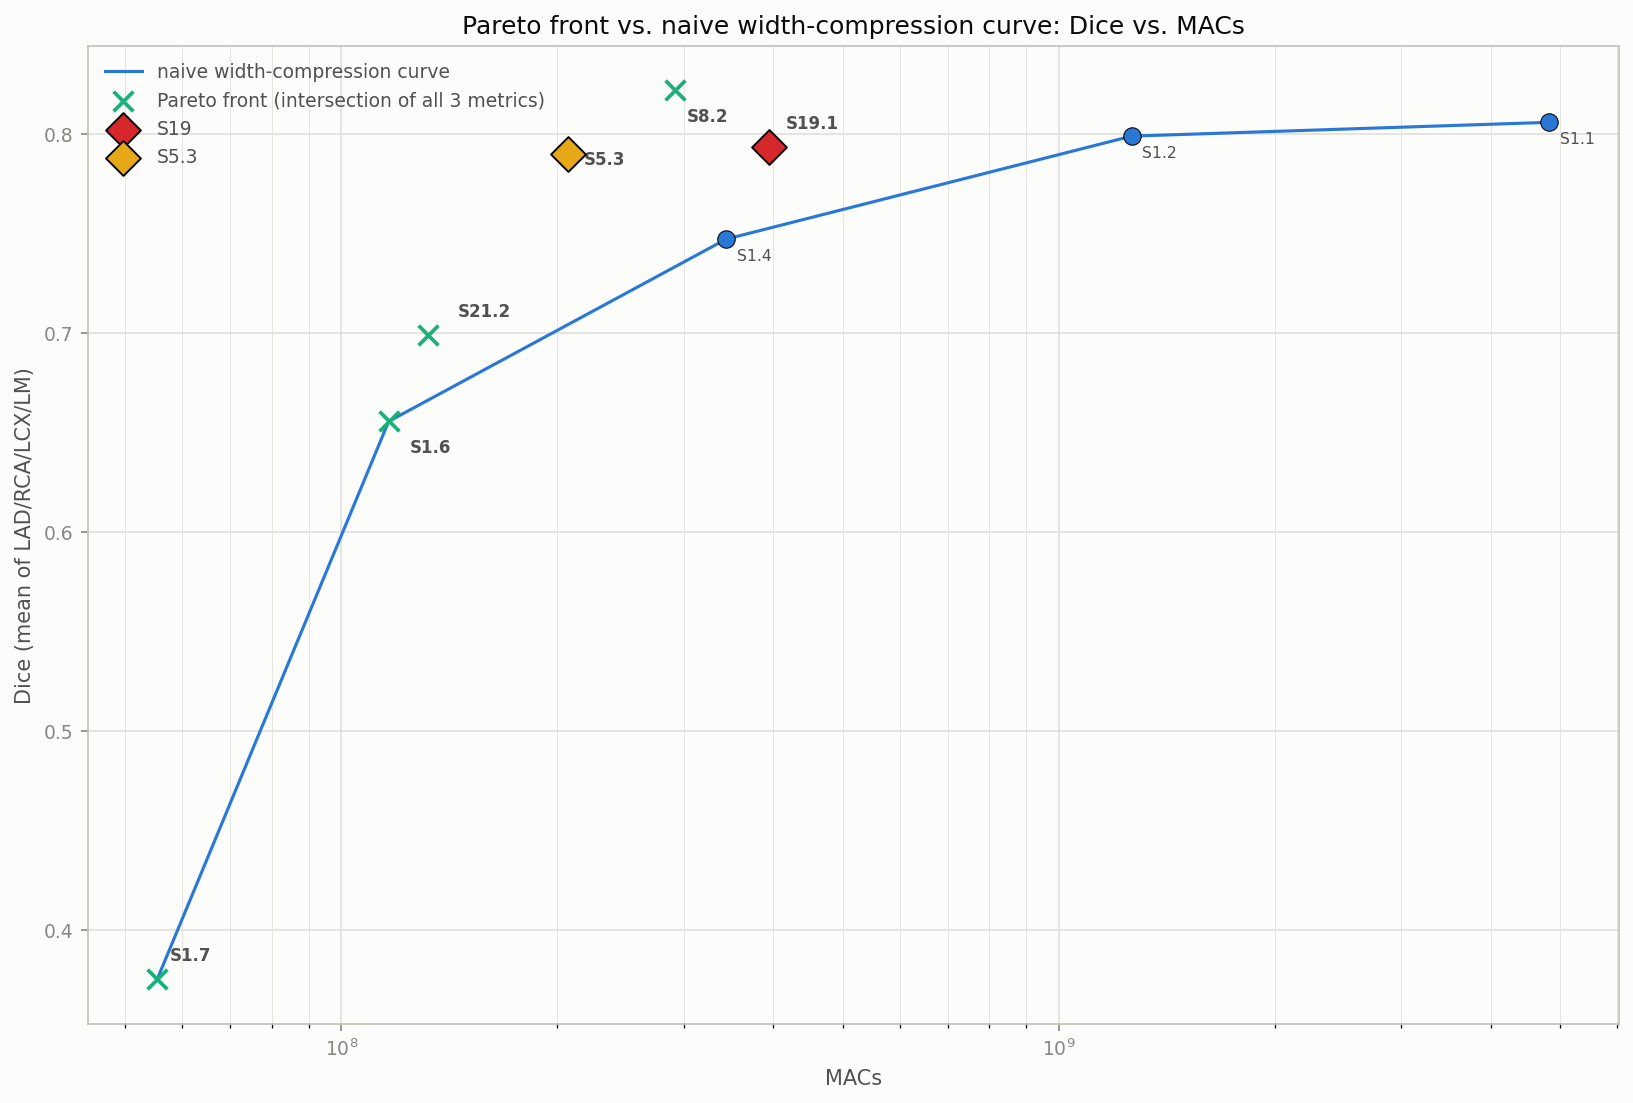
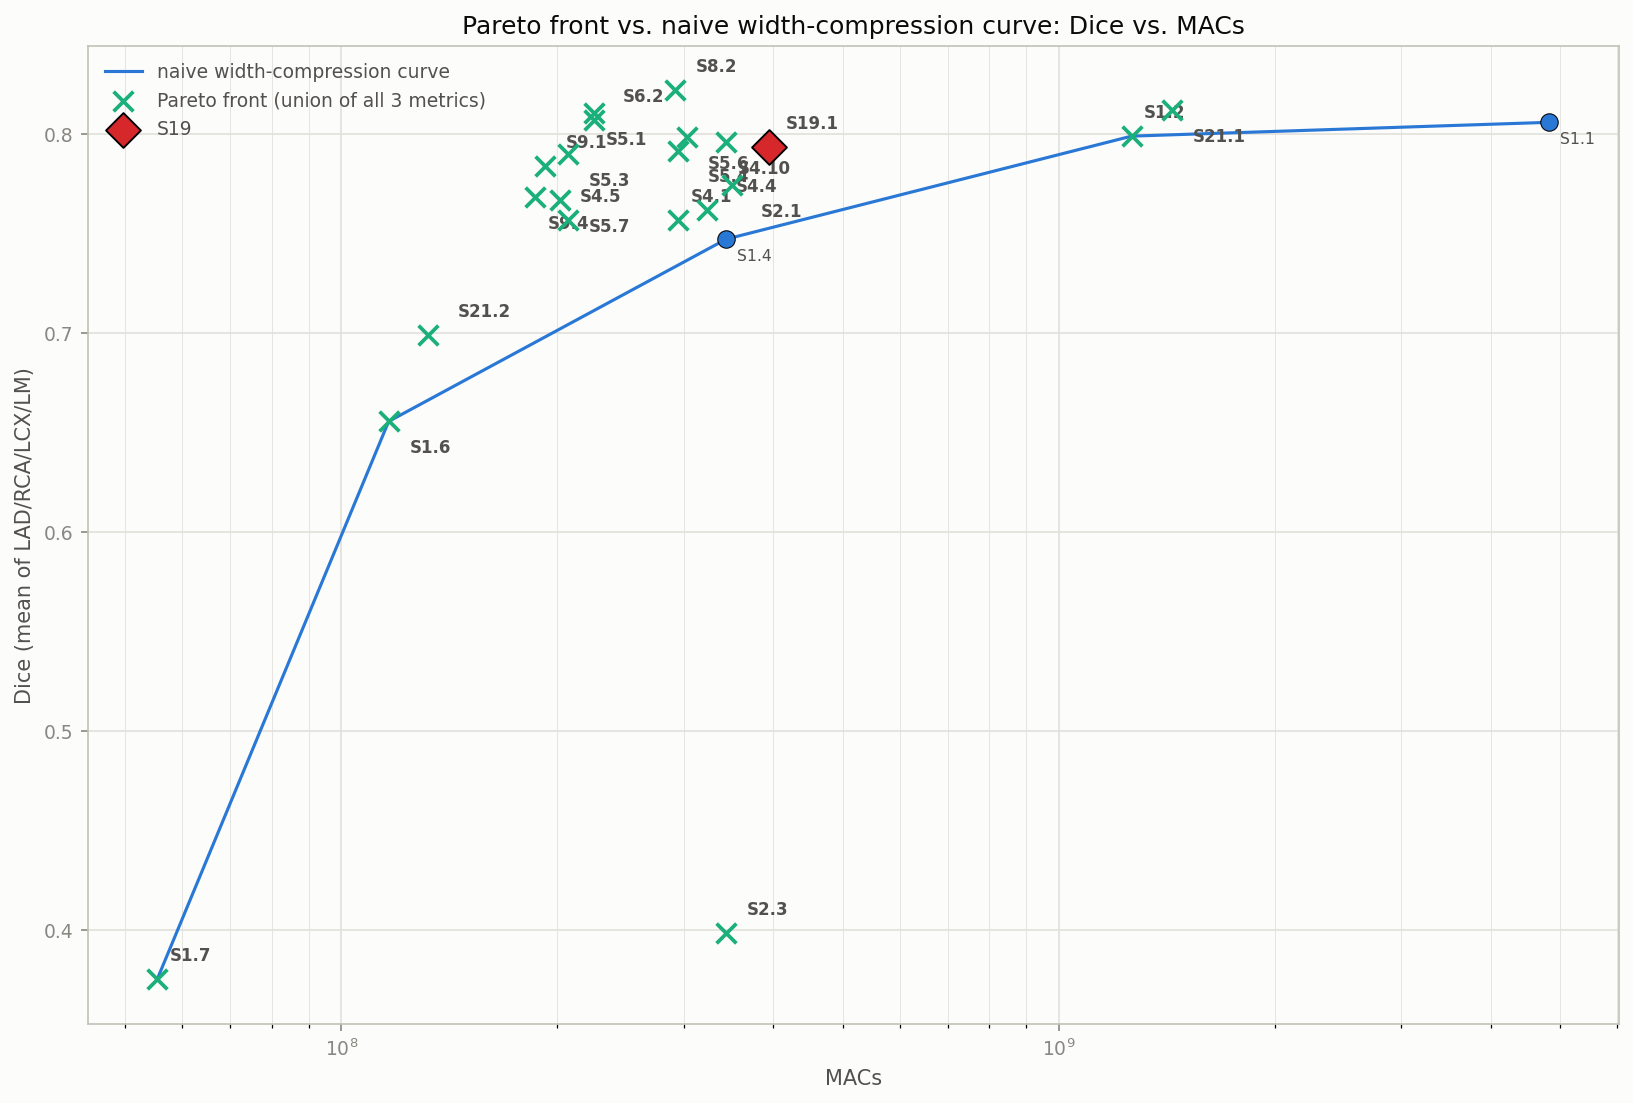
Final plots: Pareto front back to union of all 3 metrics, shown consistently in each figure
Reverted intersection_pareto_configs back to a union (union_pareto_configs):
every config Pareto-optimal on params OR macs OR mem_elements now gets an X
in all three figures, not just configs that win on all three simultaneously
(20 configs today vs. 4 under the intersection version). S5.3 happens to be
in the union front now, so it renders as a normal X instead of its diamond
(the existing "skip the diamond if already on the front" logic from the
previous commit kicks in automatically); S19 still isn't on the union front
on any metric, so it keeps its diamond.

diff --git a/compression/plot_final_width_comparison.py b/compression/plot_final_width_comparison.py
@@ -12,12 +12,12 @@ ascending, keep a point only if its dice strictly exceeds every
 cheaper-or-equal point's dice seen so far (a "staircase" of non-dominated
 points). Computed separately per metric (a config Pareto-optimal in params
 need not be Pareto-optimal in MACs or memory elements too), then the SAME
-markers -- the strict INTERSECTION of all three per-metric fronts, i.e.
-only configs Pareto-optimal on params AND macs AND mem_elements at once --
-are drawn in all three figures. A config that's cheap on one axis but not
-the others isn't a genuine all-around win, so it's left off; the same,
-narrower shortlist of true all-around contenders is what's shown
-consistently across all three figures.
+markers -- the UNION of all three per-metric fronts, i.e. every config
+that's Pareto-optimal on params OR macs OR mem_elements -- are drawn in all
+three figures. A point that only wins on one axis still shows up
+(off-frontier on the other two), so the same shortlist of contenders can be
+visually tracked across all three figures instead of a different, disjoint
+set of markers silently appearing/disappearing per figure.
 
 The naive baseline curve is drawn as plain straight-line (piecewise-linear)
 segments, not a smoothing spline -- see plot_all_configs.py's own module
@@ -29,11 +29,11 @@ architectures with no shared axis between them (channel width), so a
 connecting line would visually imply a continuous tradeoff that doesn't
 exist between e.g. S9.4 and S13.1. Front markers are an X. Configs in
 HIGHLIGHTED_CONFIGS (currently S19 and S5.3) get their own colored diamond
-drawn on top, but ONLY when they're not already part of the (intersection)
+drawn on top, but ONLY when they're not already part of the (union)
 Pareto front -- the whole point of the diamond is to force a look at a
-config that the strict front left out; a config that genuinely IS on the
-front already gets a normal X like everyone else, not a redundant second
-marker on top of itself.
+config the front left out; a config that genuinely IS on the front already
+gets a normal X like everyone else, not a redundant second marker on top
+of itself.
 
 Only rows with a compression/config_abbreviations.csv entry are
 considered (excludes pruning-grid rows, which live in results_pruning.csv
@@ -128,15 +128,14 @@ def pareto_front(df: pd.DataFrame, x_col: str) -> pd.DataFrame:
     return pd.DataFrame(keep)
 
 
-def intersection_pareto_configs(pareto_eligible: pd.DataFrame, metric_cols: tuple[str, ...]) -> set[str]:
-    """Configs that are Pareto-optimal on EVERY one of metric_cols
-    simultaneously -- the strict intersection, not the union, of the
-    per-metric fronts. This is the shortlist drawn (consistently) across
-    all three figures. A config missing any of the metrics can't be
-    verified Pareto-optimal on it, so it's excluded from the intersection
-    by construction (pareto_front's own dropna)."""
-    fronts = [set(pareto_front(pareto_eligible, col)["config_name"]) for col in metric_cols]
-    return set.intersection(*fronts) if fronts else set()
+def union_pareto_configs(pareto_eligible: pd.DataFrame, metric_cols: tuple[str, ...]) -> set[str]:
+    """Every config that's Pareto-optimal on AT LEAST ONE of metric_cols --
+    the union, not the intersection, of the per-metric fronts. This is the
+    shortlist drawn (consistently) across all three figures."""
+    union: set[str] = set()
+    for col in metric_cols:
+        union |= set(pareto_front(pareto_eligible, col)["config_name"])
+    return union
 
 
 def _plot_metric(named: pd.DataFrame, naive: pd.DataFrame, pareto_eligible: pd.DataFrame,
@@ -166,9 +165,9 @@ def _plot_metric(named: pd.DataFrame, naive: pd.DataFrame, pareto_eligible: pd.D
 
     # Highlighted configs (HIGHLIGHTED_CONFIGS) get their own colored
     # diamond, on top of every other layer -- but only for configs that
-    # actually NEED forcing, i.e. aren't already in the (intersection)
-    # Pareto front. A highlighted config that genuinely IS Pareto-optimal
-    # on all 3 metrics has nothing to force -- it already gets a normal X
+    # actually NEED forcing, i.e. aren't already in the (union) Pareto
+    # front. A highlighted config that's already Pareto-optimal on at
+    # least one metric has nothing to force -- it already gets a normal X
     # marker below, and drawing a redundant diamond on top of its own X
     # would just be double-marking the same point.
     diamond_configs = {c: v for c, v in HIGHLIGHTED_CONFIGS.items() if c not in front_configs}
@@ -177,7 +176,7 @@ def _plot_metric(named: pd.DataFrame, naive: pd.DataFrame, pareto_eligible: pd.D
         # Lowercase "x" -- matplotlib's thin, unfilled line-cross marker
         # (like a text "X" glyph), not the bold uppercase "X" filled marker.
         ax.scatter(front_other[x_col], front_other["dice"], color=PARETO_COLOR, s=90, zorder=5,
-                   marker="x", linewidths=1.8, label="Pareto front (intersection of all 3 metrics)")
+                   marker="x", linewidths=1.8, label="Pareto front (union of all 3 metrics)")
         # Alternate the label offset up/down (and vary horizontal reach a
         # little) so densely-packed Pareto points -- common near the
         # "knee" of the curve where several architectures land close
@@ -233,8 +232,8 @@ def main() -> int:
 
     pareto_eligible = named[~named["config_name"].isin(UNFAITHFUL_TRAINING_CONFIGS)]
     metric_cols = ("params", "macs", "mem_elements")
-    front_configs = intersection_pareto_configs(pareto_eligible, metric_cols)
-    print(f"Pareto front (intersection of {metric_cols}): {len(front_configs)} configs")
+    front_configs = union_pareto_configs(pareto_eligible, metric_cols)
+    print(f"Pareto front (union of {metric_cols}): {len(front_configs)} configs")
 
     args.out_dir.mkdir(parents=True, exist_ok=True)
     _plot_metric(named, naive, pareto_eligible, front_configs, "params", "Parameters",
